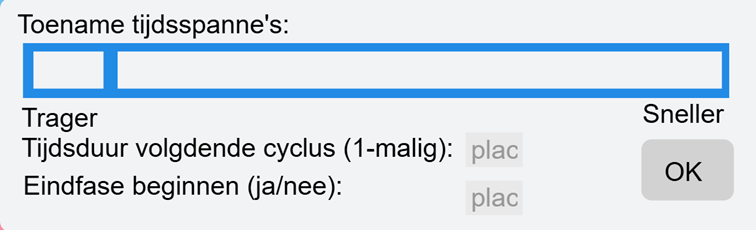
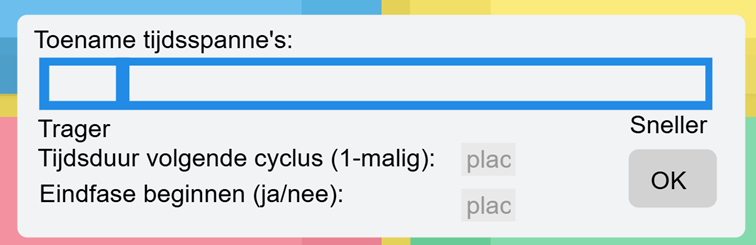
verbetering conclusie tekst en afbeeldingen

diff --git a/docs/conclusie.md b/docs/conclusie.md
@@ -8,19 +8,19 @@
 Na discovery, development en definition doorlopen te hebben wordt er geland op dit finale concept. Het is een interactief huis dat kinderen ondersteunt bij het geleidelijk afbouwen van hun tutgebruik. Via een interactief verhaal, beloningen en oplopende wachttijden worden kinderen gemotiveerd om steeds langere periodes zonder tut door te brengen.
 
 ## Gebruik
-Dit is een interactief huis dat de ouders via een uileendienst tot hun beschikking hebben. De tool komt in een doos die de instructies voor het gebruik van de tool bevatten, de tool zelf en een knuffelbeer die bij het finaal afscheid aan het kind gegeven zal worden.
+Dit is een interactief huis dat de ouders via een uileendienst tot hun beschikking hebben. De tool komt in een doos die de instructies voor het gebruik van de tool bevat, de tool zelf (inclusief boek en auto) en een knuffelbeer die bij het finaal afscheid aan het kind gegeven zal worden.
 
-De tool bevat een boek dat in verhaalvorm het gebruik van de tool zal uitleggen. Het verhaal gaat over een beer die gaat verhuizen, maar zijn huis moet eerst ingericht worden. Hiervoor roept hij de hulp van een timmerman in, de timmerman kan echter alleen werken wanneer hij het kind van de tut krijgt. 
+De tool bevat een boek dat in verhaalvorm het gebruik van de tool zal uitleggen. Het verhaal gaat over een beer die gaat verhuizen, maar zijn huis moet eerst ingericht worden. Hiervoor roept hij de hulp van een timmerman in, de timmerman kan echter alleen werken wanneer hij de tut van het kind krijgt. 
 
 Om de tut aan de timmerman te geven moeten de kinderen hun tut in de auto leggen en de garage sluiten. 
 
-Dan dienen de kinderen te wachten tot de tijdsbalk de tweede ster bereikt. Vanaf dat moment is de timmerman klaar met werken en is een meubel klaar. Het kind heeft dan de keuze:
-1. De tut terug uit de garage halen en een beloning krijgen. 
-2. Wachten tot een later sterretje en een grotere beloning krijgen. Deze zal hetzelfde zijn als de vorige beloning maar met een extra auditieve beloning.
+Dan dienen de kinderen te wachten tot de tijdsbalk de tweede ster bereikt. Vanaf dat moment is de timmerman klaar met werken en is één meubel klaar. Het kind heeft dan de keuze:
+1. De tut uit de garage halen en een beloning krijgen. 
+2. Wachten tot een later sterretje en een grotere beloning krijgen. Deze zal hetzelfde zijn als de beloning (in 1.) maar met een extra auditieve beloning.
 
-De eerste ster vormt een eerste mijlpaal. Wanneer het kind de tut vóór deze ster terugneemt, ontvangt het enkel een auditieve aanmoediging en geen beloning.
+De eerste ster vormt een eerste mijlpaal. Wanneer het kind de tut tussen de eerste en tweede ster terugneemt, ontvangt het enkel een auditieve aanmoediging en geen beloning. Wanneer het kind voor de eerste ster de tut terugneemt zal deze geen feedback ontvangen.
 
-Vanaf het moment dat het kind zijn tut uit de garage haalt krijgt deze de keuze tussen 3 beloningen, deze beloningen stellen het meubel voor dat de beer heeft gemaakt. De kinderen hebben keuze tussen 3 kleurvariaties om de cognitieve bellasting van het kind zo laag mogelijk te houden.
+Vanaf het moment dat het kind de tut uit de garage haalt, krijgt deze de keuze tussen 3 beloningen, deze beloningen stellen het meubel voor dat de beer heeft gemaakt. De kinderen hebben keuze tussen 3 kleurvariaties om de cognitieve belasting van het kind zo laag mogelijk te houden.
 <p align="center">
   <img src="../img/Interface 2 Protopie.png" width="600"><br>
   <em> Beloningen </em>
@@ -28,12 +28,12 @@ Vanaf het moment dat het kind zijn tut uit de garage haalt krijgt deze de keuze 
 
 
 ## Interactief boek
-De tool zal telkens aangeven wanneer het volgende hoofdstuk van het boek gelezen zal mogen worden. Zo blijft het kind betrokken worden in het leven van beer en blijft het interesseniveau van het kind hoog. 
+De tool zal telkens aangeven wanneer het volgende hoofdstuk van het boek gelezen mag worden. Zo blijft het kind betrokken in het leven van beer en blijft het interesseniveau van het kind hoog. 
 
-Wat in het boek gebeurd is verbonden met de beloningen die het kind zal ontvangen in de tool. 
-Het kind kan keuzes maken in het boek en via pictogrammen deze keuzes naar de tool communiceren. Zo krijgt een kind een meer gepersonaliseerd verhaal en bevordert dit de interesse nogmaals.
+Wat in het boek gebeurt is verbonden met de beloningen die het kind zal ontvangen in de tool. 
+Het kind kan keuzes maken in het boek en via pictogrammen deze keuzes naar de tool communiceren. Zo krijgt een kind een gepersonaliseerd verhaal en bevordert dit de interesse nogmaals.
 
-Er werd gekozen om met een boek te werken en niet via animaties op het scherm om de schermtijd tot een minimum te houden.
+Er werd gekozen om met een boek te werken, en niet via animaties op het scherm, om de schermtijd tot een minimum te beperken.
 
 ## Tijdsverdeling
 Initieel stelt de ouder de tijdsperiodes in die het kind zal volgen door volgende interface bij aanvang in te vullen:
@@ -44,7 +44,7 @@ Initieel stelt de ouder de tijdsperiodes in die het kind zal volgen door volgend
 
 Op basis van de door de ouder ingestelde parameters berekent de tool automatisch tussenliggende tijdsperiodes. Het algoritme bepaalt zowel de grootte van de stappen als het aantal succesvolle herhalingen dat nodig is voordat het kind naar een langere periode zonder tut kan doorgroeien. Op deze manier stippelen de kinderen hun eigen traject uit naast hetgene dat door de tool wordt vooropgesteld.
 
-Verder zal de ouder wanneer deze bijvoorbeeld wenst dat het kind een hele nacht door zijn tut afstaat een éénmalige tijdsperiode instellen. Ook kan deze aan de tool aangeven dat het proces sneller of trager mag gaan. Dit kan ingesteld worden in volgende interface:
+Verder zal de ouder, wanneer deze bijvoorbeeld wenst dat het kind een volledige nacht zijn tut afstaat, een éénmalige tijdsperiode instellen. Ook kan deze aan de tool aangeven dat het proces sneller of trager mag gaan. Dit kan ingesteld worden in volgende interface:
 <p align="center">
   <img src="../img/persoonlijke instellingen.png" width="500"><br>
   <em> Instellingen ouders </em>
@@ -58,7 +58,7 @@ Deze interface is beschermd door een rekensom, zo kunnen enkel ouders aan deze i
 
 ## Meldingen
 
-De ouders kunnen beslissen om een melding op de tool te krijgen ter herinnering dat deze gebruikt dient te worden. Dit kan ingesteld op een vast moment op de dag, zodat het gebruik van de tool bijvoorbeeld ingebed wordt in de ochtendroutine. 
+De ouders kunnen beslissen om een melding op de tool te ontvangen ter herinnering dat deze gebruikt dient te worden. Dit kan ingesteld op een vast moment op de dag, zodat het gebruik van de tool bijvoorbeeld ingebed wordt in de ochtendroutine. 
 
 ## Einde
 
@@ -69,11 +69,12 @@ De ouder krijgt dan een 'i' bij de instellingen waar enkel de ouders toegang toe
   <em> Melding eidfase</em>
 </p>
 Ouders kunnen dus zelf beslissen of het kind op dat moment of op een later moment de tut finaal zal afstaan. 
-Er zal een finaal hoofdstuk gestart worden waarbij het kind zijn tut moet afstaan om de beer te helpen.
-Het kind krijgt na het afscheid een knuffel van de beer, om naast een troostmiddel ook als herinnering te dienen dat het kind zijn tut heeft afgestaan om de beer te helpen. Dit helpt ook de ouders om de kinderen hieraan te herinneren.
 
-Om de overgang nog minder emotioneel te maken blijft de tool nog enkele dagen in het huishouden en zal deze het kind aanmoedigen door nog enkele verhalen over beer te geven. Zo wordt het kind herinnerd dat deze iets goed gedaan heeft met de tut af te geven. 
+Er zal een finaal hoofdstuk in het boek gestart worden waarbij het kind zijn tut moet afstaan om de beer te helpen.
+Het kind krijgt na het afscheid een knuffel van de beer, om naast troostmiddel ook als herinnering te dienen dat het kind zijn tut heeft afgestaan om de beer te helpen. Dit helpt ook de ouders om de kinderen hieraan te herinneren wanneer ze de tut missen.
+
+Om de overgang minder emotioneel te maken blijft de tool nog enkele dagen in het huishouden en zal deze het kind aanmoedigen door nog enkele verhalen over beer te geven. Zo wordt het kind herinnerd dat het iets goed gedaan heeft met de tut af te geven. 
 
 ## Conclusie
 
-Op deze manier wordt de tut stap voor stap afgebouwd op een speelse en interactieve manier. Kinderen ervaren het afstaan van hun tut hierdoor als een positieve en speelse ervaring en bouwen hun afhankelijkheid van de tut zo gaandeweg af. Waardoor het emotionele aspect van het afbouwproces zoveel mogelijk wordt beperkt.
+Op deze manier wordt de tut stap voor stap afgebouwd op een speelse en interactieve manier. Kinderen ervaren het afstaan van hun tut hierdoor als een positieve, speelse en hulpvaardige ervaring en bouwen hun afhankelijkheid van de tut gaandeweg af, waardoor het emotionele aspect van het afbouwproces zoveel mogelijk wordt beperkt.